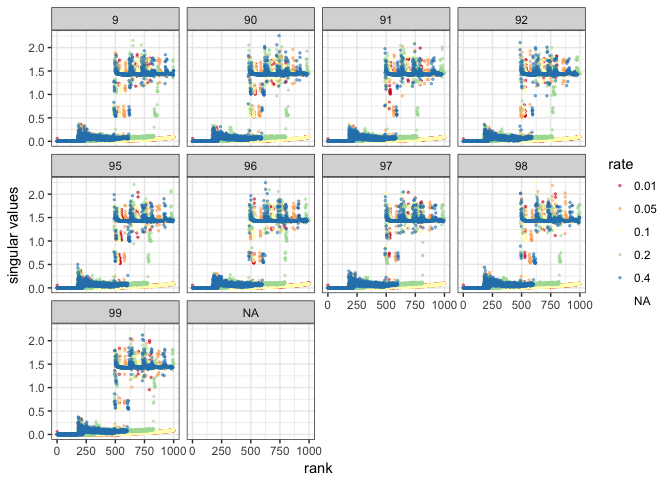
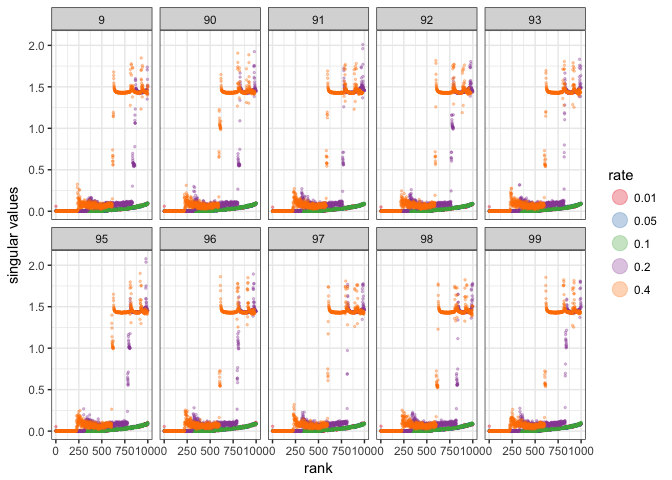
Fix figures

diff --git a/Graph_Sparsification/Result/tfidf_sampling/matrix_sampling_TFIDF.md b/Graph_Sparsification/Result/tfidf_sampling/matrix_sampling_TFIDF.md
@@ -57,10 +57,7 @@ str(tfidf_original)
     ##  $ variance        : num  384694 544726 661040 753233 371051 ...
     ##  $ nsv             : int  200 400 600 800 200 400 600 800 200 400 ...
 
-Fixing my original calculation
-------------------------------
-
-On Dec 20, I found that I forgot to take the square root of my frobenius norm and variance (sum of squares). Therefore, I'm doing it now to fix it with in the dataset itself to avoid having to rerun the command.
+**Fixing my original calculation** On Dec 20, I found that I forgot to take the square root of my frobenius norm and variance (sum of squares). Therefore, I'm doing it now to fix it with in the dataset itself to avoid having to rerun the command.
 
 ``` r
 tfidf <- transform(tfidf, forbenius=sqrt(forbenius), variance=sqrt(variance))
@@ -118,30 +115,30 @@ Scalar = 10
 # Create different data.frame for different scalar group (including the sample = 1 group)
 all_10 <- rbind(tfidf_original, tfidf[tfidf$scalar==10,])
 all_10 <- get_summary(all_10)
-ggplot(all_10, aes(x = rate, y = cov, colour = nsv, group = nsv)) + geom_point() + geom_line() +  facet_wrap(~matrix_name, nrow=2) + theme_bw()
+ggplot(all_10, aes(x = rate, y = cov, colour = nsv, group = nsv)) + geom_point() + geom_line() +  facet_wrap(~matrix_name, nrow=2) + theme_bw() + theme(text = element_text(size=8))
 ```
 
-![](matrix_sampling_TFIDF_files/figure-markdown_github/tfidf_coverage_scalar10-1.png)
+<img src="matrix_sampling_TFIDF_files/figure-markdown_github/tfidf_coverage_scalar10-1.png" width="800" />
 
 Scalar = 100
 
 ``` r
 all_100 <- rbind(tfidf_original, tfidf[tfidf$scalar==100,])
 all_100 <- get_summary(all_100)
-ggplot(all_100, aes(x = rate, y = cov, colour = nsv, group = nsv)) + geom_point() + geom_line() +  facet_wrap(~matrix_name, nrow=2) + theme_bw() 
+ggplot(all_100, aes(x = rate, y = cov, colour = nsv, group = nsv)) + geom_point() + geom_line() +  facet_wrap(~matrix_name, nrow=2) + theme_bw() + theme(text = element_text(size=8))
 ```
 
-![](matrix_sampling_TFIDF_files/figure-markdown_github/tfidf_coverage_scalar100-1.png)
+<img src="matrix_sampling_TFIDF_files/figure-markdown_github/tfidf_coverage_scalar100-1.png" width="800" />
 
 Scalar = 1000
 
 ``` r
 all_1000 <- rbind(tfidf_original, tfidf[tfidf$scalar==1000,])
 all_1000 <- get_summary(all_1000)
-ggplot(all_1000, aes(x = rate, y = cov, colour = nsv, group = nsv)) + geom_point() + geom_line() +  facet_wrap(~matrix_name, nrow=2) + theme_bw() 
+ggplot(all_1000, aes(x = rate, y = cov, colour = nsv, group = nsv)) + geom_point() + geom_line() +  facet_wrap(~matrix_name, nrow=2) + theme_bw() + theme(text = element_text(size=8))
 ```
 
-![](matrix_sampling_TFIDF_files/figure-markdown_github/tfidf_coverage_scalar1000-1.png)
+<img src="matrix_sampling_TFIDF_files/figure-markdown_github/tfidf_coverage_scalar1000-1.png" width="800" />
 
 Look at error estimates and singular values
 -------------------------------------------
@@ -150,7 +147,7 @@ Look at error estimates and singular values
 # Data process. Loading from my own project space because I don't want to commit the result file. 
 svals_tfidf <- read.table("/projects/slin_prj/PubMed_Experiment/graph_sparsification/svals_sampled_tfidf.result", header=TRUE)
 svals_tfidf <- svals_tfidf %>% dplyr::group_by(matrix_name, rate, multiplier, rank) %>% dplyr::summarise_at(c("singular_value", "error_estimate"), c("mean", "sd"))
-svals_tfidf <- svals_tfidf %>% tidyr::separate(matrix_name, c("id"), sep = "[.]") # simplify matrix name 
+svals_tfidf <- svals_tfidf %>% tidyr::separate(matrix_name, c("id", "matrix_type"), sep = "[.]") # simplify matrix name 
 svals_tfidf$rate <- factor(svals_tfidf$rate)
 ```
 
@@ -158,17 +155,15 @@ For multiplier = 10
 
 ``` r
 # Excluding 93 to see the others better. 
-ggplot(svals_tfidf[c(svals_tfidf$id != "93", svals_tfidf$multiplier==10), ], aes(x=rank, y=error_estimate_mean, colour=rate)) + geom_point(alpha=0.5, size=0.5) + facet_wrap(~id) + scale_color_brewer(palette="Spectral") + ylab("singular values") + theme_bw()
+ggplot(svals_tfidf[svals_tfidf$multiplier==10, ], aes(x=rank, y=error_estimate_mean, colour=rate)) + geom_point(alpha=0.3, size=0.5) + facet_wrap(~id, nrow=2) +  ylab("singular values") + theme_bw() + guides(colour = guide_legend(override.aes = list(size=5))) + scale_colour_brewer(palette = "Set1")
 ```
-
-    ## Warning: Removed 49901 rows containing missing values (geom_point).
 
 ![](matrix_sampling_TFIDF_files/figure-markdown_github/multiplier_10-1.png) From the look of it, the error estimate are similar for matrices sampled at different rate. Powergraph's error of singular value estimates are similar for the same matrix sampled at different rate.
 
 A look at the singular values
 
 ``` r
-ggplot(svals_tfidf, aes(x=rank, y=singular_value_mean, colour=rate)) + geom_point(alpha=0.5, size=0.5) + facet_wrap(~id, nrow=2) + scale_color_brewer(palette="Spectral") + ylab("singular value") + theme_bw()
+ggplot(svals_tfidf, aes(x=rank, y=singular_value_mean, colour=rate)) + geom_point(alpha=0.5, size=0.5) + facet_wrap(~id, nrow=2) + ylab("singular value") + theme_bw() + guides(colour = guide_legend(override.aes = list(size=5))) + scale_colour_brewer(palette = "Set1")
 ```
 
 ![](matrix_sampling_TFIDF_files/figure-markdown_github/mean_svals-1.png)
@@ -227,7 +222,7 @@ head(run_time_summary)
 Graph result
 
 ``` r
-ggplot(run_time_summary, aes(x = sample_rate, y = mean, colour = scalar, group = scalar)) + geom_point() + geom_line() + geom_errorbar(aes(ymax = mean + de, ymin=mean - de), width=0.01) +  facet_wrap(~matrix_name, nrow=2) + theme_bw()
+ggplot(run_time_summary, aes(x = sample_rate, y = mean, colour = scalar, group = scalar)) + geom_point() + geom_line() + geom_errorbar(aes(ymax = mean + de, ymin=mean - de), width=0.01) +  facet_wrap(~matrix_name, nrow=2, scale="free") + theme_bw()
 ```
 
 ![](matrix_sampling_TFIDF_files/figure-markdown_github/runningtime_tfidf_summary-1.png)
@@ -240,6 +235,14 @@ ggplot(run_time_summary_subset, aes(x = sample_rate, y = mean, colour = scalar, 
 ```
 
 ![](matrix_sampling_TFIDF_files/figure-markdown_github/runningtime_tfidf_no_outliers-1.png)
+
+Overall running time
+
+``` r
+ggplot(run_time_summary, aes(x = sample_rate, y = mean, color=scalar)) + geom_point() + stat_summary(fun.y = mean, geom="line", size=1.0) + ylab("average run time (seconds)") + xlab("sampling rate") + theme_bw()
+```
+
+![](matrix_sampling_TFIDF_files/figure-markdown_github/runningtime_tfidf_all_matrices-1.png)
 
 Sparsity
 --------
